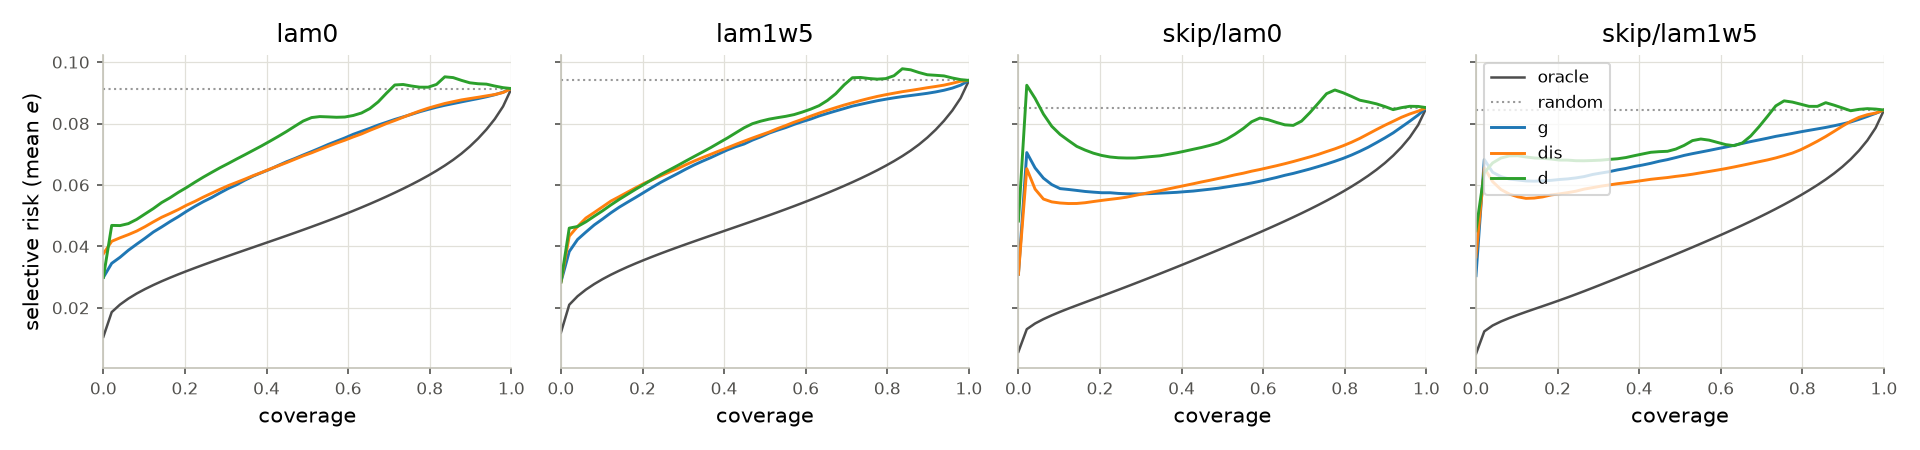
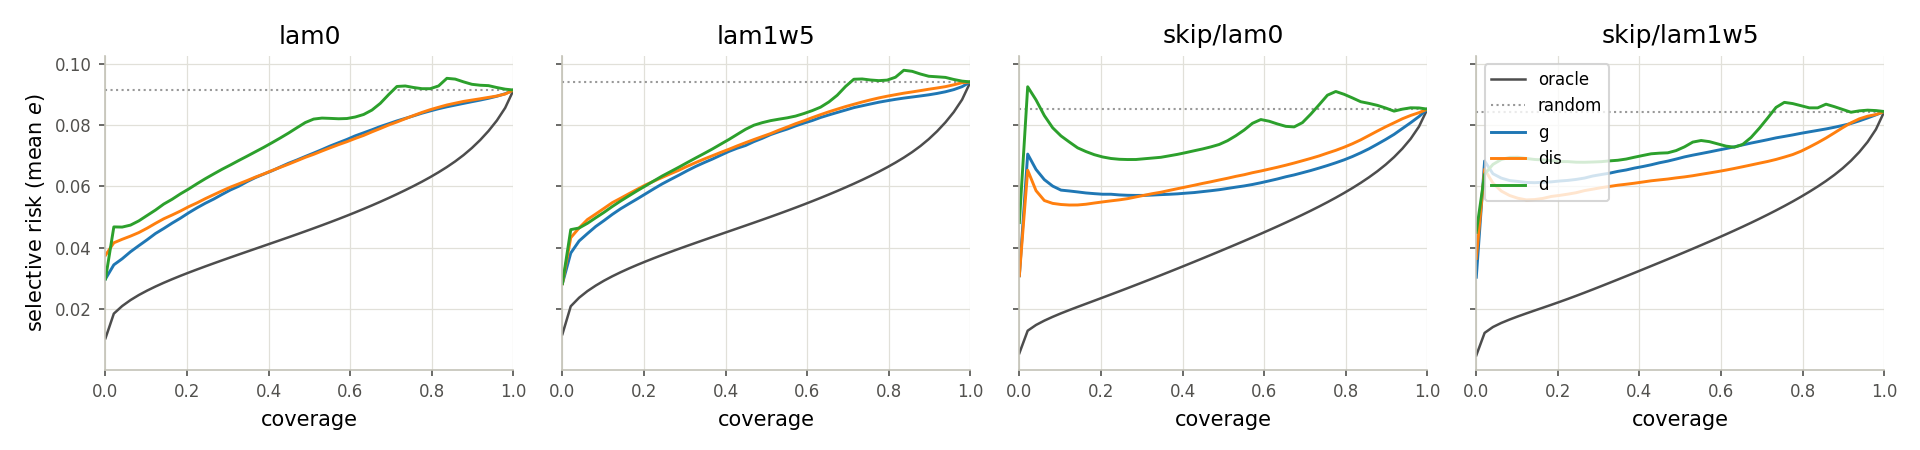
Compute the exact AURC and label Table 1 like Table 2
The AURC was a 200-point trapezoid starting at coverage 1/n, so its
first interval rested on one image's error. It is now the mean
selective risk over all coverages k/n, the discrete AURC of Geifman et
al. that the report cites; its expectation for a random order is
mean(e), the normalizer's anchor. nAURC moves by at most 0.003. In the
report only Table 2's disagreement nAURC for the skip model at
lambda 1 changes (0.57 to 0.58). risk_coverage.png is regenerated with
the final pipeline.

report_table.py: the first column is "model", Table 1's labels read like
Table 2's, a share of exactly 0.5% prints as <1%, --help no longer
rewrites the tables, and a missing conformal group is reported.

diff --git a/scripts/report_table.py b/scripts/report_table.py
@@ -10,6 +10,9 @@ results/selective. Skipped when those folders are missing.
     python scripts/report_table.py
 """
 
+import argparse
+import re
+
 import numpy as np
 import pandas as pd
 
@@ -73,6 +76,9 @@ def per_image_columns(path, wanted=("model", "family", "e", "g", "dis")):
 
 
 def main():
+    # No options; the parser gives --help instead of silently rewriting the tables.
+    argparse.ArgumentParser(description=__doc__,
+                            formatter_class=argparse.RawDescriptionHelpFormatter).parse_args()
     metrics = load("metrics.csv")
     summary = load("summary.csv")
     paths = [REPO_ROOT / folder / "per_image.csv.gz" for folder in FOLDERS]
@@ -149,6 +155,9 @@ def coverage_table(groups=("dae_lam0", "dae_lam1w5", "unet_lam0", "unet_lam1w5")
     shift = pd.read_csv(conformal_dir / "shift.csv")
     selective = pd.read_csv(selective_dir / "selective.csv")
 
+    missing = [g for g in groups if g not in set(pooled["model_group"])]
+    if missing:
+        print(f"warning: no conformal results for {missing}; table_coverage.tex leaves them out")
     rows = []
     for group in groups:
         pooled_g = pooled[(pooled["model_group"] == group)]
@@ -206,7 +215,7 @@ def coverage_table(groups=("dae_lam0", "dae_lam1w5", "unet_lam0", "unet_lam1w5")
 def latex_rows(table):
     """The complete tabular for the report (inputting rows inside a tabular breaks \\multicolumn).
 
-    Columns: training, e, g, within/noise/partial/pooled/AUROC for g, within for d, r_A and dis,
+    Columns: model, e, g, within/noise/partial/pooled/AUROC for g, within for d, r_A and dis,
     flagged pixel/box for g. The runs without a warm-up collapse to a constant map, so every
     ranking is degenerate; they stay in results/report_table.csv but not in the report's table,
     where the text gives their error and residual.
@@ -218,7 +227,7 @@ def latex_rows(table):
         if pd.isna(value):
             return "--"
         # A share that rounds to 0% but is not zero, as the text says "under 1%".
-        return "$<$1\\%" if 0 < value < 0.005 else f"{100 * value:.0f}\\%"
+        return "$<$1\\%" if value > 0 and round(100 * value) == 0 else f"{100 * value:.0f}\\%"
 
     lines = [
         r"\setlength{\tabcolsep}{4pt}",
@@ -227,7 +236,7 @@ def latex_rows(table):
         r"& & & \multicolumn{5}{c}{signal $g$} & $d$ & $r_A$ & $\mathrm{dis}$"
         r" & \multicolumn{2}{c}{$g$ flagged} \\",
         r"\cmidrule(lr){4-8} \cmidrule(l){12-13}",
-        r"training & $e$ & $g$ & within & noise & partial & pooled & AUROC & within & within"
+        r"model & $e$ & $g$ & within & noise & partial & pooled & AUROC & within & within"
         r" & within & pixel & box \\",
         r"\midrule",
     ]
@@ -235,7 +244,9 @@ def latex_rows(table):
         rows = table[(table["architecture"] == architecture)
                      & ~table["training"].str.contains("no warm-up")]
         for _, row in rows.iterrows():
-            training = row["training"].replace("none", "lambda 0").replace("lambda", r"$\lid{=}$")
+            # "lambda 1, inner only" -> "$\lid{=}1$, inner only", as in Table 2's labels
+            training = re.sub(r"lambda ([0-9.]+)", r"$\\lid{=}\1$",
+                              row["training"].replace("none", "lambda 0"))
             cells = [f"{architecture}, {training}", number(row["error"], 3),
                      number(row["residual"], 3)]
             cells += [number(row[c]) for c in ("rho_g", "rho_g_noise", "partial_g", "pooled_g",

diff --git a/src/fpr/selective.py b/src/fpr/selective.py
@@ -5,15 +5,14 @@ the mean error of the accepted set. The risk-coverage curve plots that mean agai
 kept fraction (coverage). The area under it (AURC) summarizes the curve; selective risk
 at a fixed coverage (e.g. 80%) is the operational number.
 
-Normalization: report (aurc - aurc_oracle) / (aurc_random - aurc_oracle), so 0 is perfect
-ranking by true error and 1 is a constant score (cf. selective conformal risk control,
-arXiv:2512.12844).
+AURC is the mean selective risk over all coverages k/n, as in Geifman, Uziel and El-Yaniv
+(ICLR 2019, arXiv:1805.08206), who define the excess AURC over the oracle ranking.
+Normalization: report (aurc - aurc_oracle) / (aurc_random - aurc_oracle), so 0 is ranking by
+the true error and 1 is the expected AURC of a random order, mean(e). A constant score is not a
+random order: the stable sort keeps the file order.
 """
 
 import numpy as np
-
-# NumPy 2 renamed trapz to trapezoid and later removed trapz; keep both versions working.
-_trapezoid = getattr(np, "trapezoid", None) or np.trapz
 
 
 def risk_coverage_curve(signal, error, n_points=50):
@@ -37,12 +36,18 @@ def risk_coverage_curve(signal, error, n_points=50):
     return coverage, risk
 
 
-def aurc(signal, error, n_points=200):
-    """Trapezoidal area under the risk-coverage curve."""
-    coverage, risk = risk_coverage_curve(signal, error, n_points=n_points)
-    if len(coverage) < 2:
+def aurc(signal, error):
+    """Area under the risk-coverage curve: the mean selective risk over all coverages k/n.
+
+    Exact, unlike a trapezoid on a grid, whose first interval rests on one image's error.
+    """
+    signal = np.asarray(signal, dtype=np.float64)
+    error = np.asarray(error, dtype=np.float64)
+    n = len(error)
+    if n == 0:
         return float("nan")
-    return float(_trapezoid(risk, coverage))
+    order = np.argsort(signal, kind="stable")
+    return float(np.mean(np.cumsum(error[order]) / np.arange(1, n + 1)))
 
 
 def selective_risk(signal, error, coverage=0.8):
@@ -55,22 +60,22 @@ def selective_risk(signal, error, coverage=0.8):
     return float(error[order[:k]].mean())
 
 
-def normalized_aurc(signal, error, n_points=200):
-    """AURC scaled so 0 = oracle (rank by e) and 1 = random (constant score)."""
-    aurc_s = aurc(signal, error, n_points=n_points)
-    aurc_oracle = aurc(error, error, n_points=n_points)
-    aurc_random = float(np.mean(error))  # constant score: risk = mean e at every coverage
+def normalized_aurc(signal, error):
+    """AURC scaled so 0 = oracle (rank by e) and 1 = the expected AURC of a random order."""
+    aurc_s = aurc(signal, error)
+    aurc_oracle = aurc(error, error)
+    aurc_random = float(np.mean(error))  # random order: expected risk is mean e at every coverage
     denom = aurc_random - aurc_oracle
     if abs(denom) < 1e-15:
         return float("nan")
     return float((aurc_s - aurc_oracle) / denom)
 
 
-def summarize(signal, error, coverages=(0.8, 0.5), n_points=200):
+def summarize(signal, error, coverages=(0.8, 0.5)):
     """Dict with AURC, normalized AURC, and selective risk at each coverage."""
     out = {
-        "aurc": aurc(signal, error, n_points=n_points),
-        "aurc_norm": normalized_aurc(signal, error, n_points=n_points),
+        "aurc": aurc(signal, error),
+        "aurc_norm": normalized_aurc(signal, error),
         "mean_error": float(np.mean(error)),
     }
     for c in coverages:

diff --git a/report/table_main.tex b/report/table_main.tex
@@ -3,14 +3,14 @@
 \toprule
 & & & \multicolumn{5}{c}{signal $g$} & $d$ & $r_A$ & $\mathrm{dis}$ & \multicolumn{2}{c}{$g$ flagged} \\
 \cmidrule(lr){4-8} \cmidrule(l){12-13}
-training & $e$ & $g$ & within & noise & partial & pooled & AUROC & within & within & within & pixel & box \\
+model & $e$ & $g$ & within & noise & partial & pooled & AUROC & within & within & within & pixel & box \\
 \midrule
-bottleneck, $\lid{=}$ 0 & 0.092 & 0.015 & 0.70 & 0.74 & 0.59 & 0.55 & 0.69 & 0.77 & 0.80 & 0.79 & 18\% & 74\% \\
-bottleneck, $\lid{=}$ 0.1 & 0.092 & 0.013 & 0.71 & 0.73 & 0.56 & 0.52 & 0.68 & 0.77 & 0.80 & 0.78 & 13\% & 76\% \\
-bottleneck, $\lid{=}$ 1 & 0.095 & 0.009 & 0.62 & 0.60 & 0.53 & 0.49 & 0.67 & 0.83 & 0.84 & 0.76 & 10\% & 89\% \\
-bottleneck, $\lid{=}$ 1, inner only & 0.097 & 0.014 & 0.61 & 0.68 & 0.61 & 0.53 & 0.72 & 0.82 & 0.85 & 0.72 & 22\% & 89\% \\
-bottleneck, $\lid{=}$ 1, outer only & 0.095 & 0.011 & 0.65 & 0.64 & 0.54 & 0.50 & 0.67 & 0.77 & 0.81 & 0.82 & 11\% & 79\% \\
-skip, $\lid{=}$ 0 & 0.086 & 0.019 & 0.86 & 0.92 & 0.48 & 0.52 & 0.73 & 0.49 & 0.72 & 0.84 & 68\% & $<$1\% \\
-skip, $\lid{=}$ 1 & 0.084 & 0.007 & 0.63 & 0.60 & 0.27 & 0.40 & 0.63 & 0.28 & 0.66 & 0.88 & 31\% & 2\% \\
+bottleneck, $\lid{=}0$ & 0.092 & 0.015 & 0.70 & 0.74 & 0.59 & 0.55 & 0.69 & 0.77 & 0.80 & 0.79 & 18\% & 74\% \\
+bottleneck, $\lid{=}0.1$ & 0.092 & 0.013 & 0.71 & 0.73 & 0.56 & 0.52 & 0.68 & 0.77 & 0.80 & 0.78 & 13\% & 76\% \\
+bottleneck, $\lid{=}1$ & 0.095 & 0.009 & 0.62 & 0.60 & 0.53 & 0.49 & 0.67 & 0.83 & 0.84 & 0.76 & 10\% & 89\% \\
+bottleneck, $\lid{=}1$, inner only & 0.097 & 0.014 & 0.61 & 0.68 & 0.61 & 0.53 & 0.72 & 0.82 & 0.85 & 0.72 & 22\% & 89\% \\
+bottleneck, $\lid{=}1$, outer only & 0.095 & 0.011 & 0.65 & 0.64 & 0.54 & 0.50 & 0.67 & 0.77 & 0.81 & 0.82 & 11\% & 79\% \\
+skip, $\lid{=}0$ & 0.086 & 0.019 & 0.86 & 0.92 & 0.48 & 0.52 & 0.73 & 0.49 & 0.72 & 0.84 & 68\% & $<$1\% \\
+skip, $\lid{=}1$ & 0.084 & 0.007 & 0.63 & 0.60 & 0.27 & 0.40 & 0.63 & 0.28 & 0.66 & 0.88 & 31\% & 2\% \\
 \bottomrule
 \end{tabular}

diff --git a/report/table_coverage.tex b/report/table_coverage.tex
@@ -8,6 +8,6 @@ model & $g$ & level & pixel & box & shift & $g$ & $\mathrm{dis}$ \\
 bottleneck, $\lid{=}0$ & 0.174 & 0.138 & 0.61 & 0.96 & 0.48 & 0.41 & 0.48 \\
 bottleneck, $\lid{=}1$ & 0.175 & 0.143 & 0.60 & 0.97 & 0.55 & 0.50 & 0.53 \\
 skip, $\lid{=}0$ & 0.173 & 0.129 & 0.74 & 0.76 & 0.16 & 0.51 & 0.53 \\
-skip, $\lid{=}1$ & 0.181 & 0.127 & 0.67 & 0.85 & 0.31 & 0.65 & 0.57 \\
+skip, $\lid{=}1$ & 0.181 & 0.127 & 0.67 & 0.85 & 0.31 & 0.65 & 0.58 \\
 \bottomrule
 \end{tabular}
